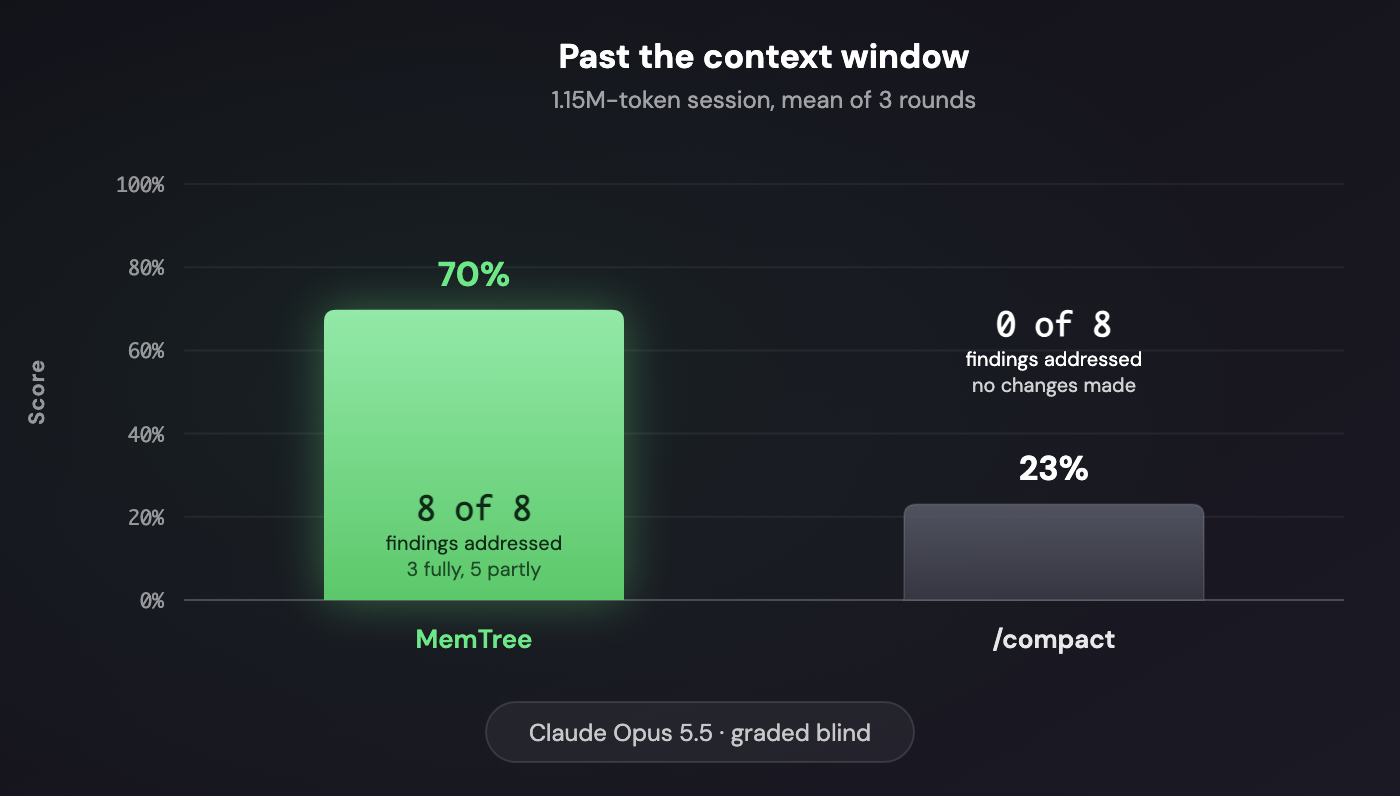
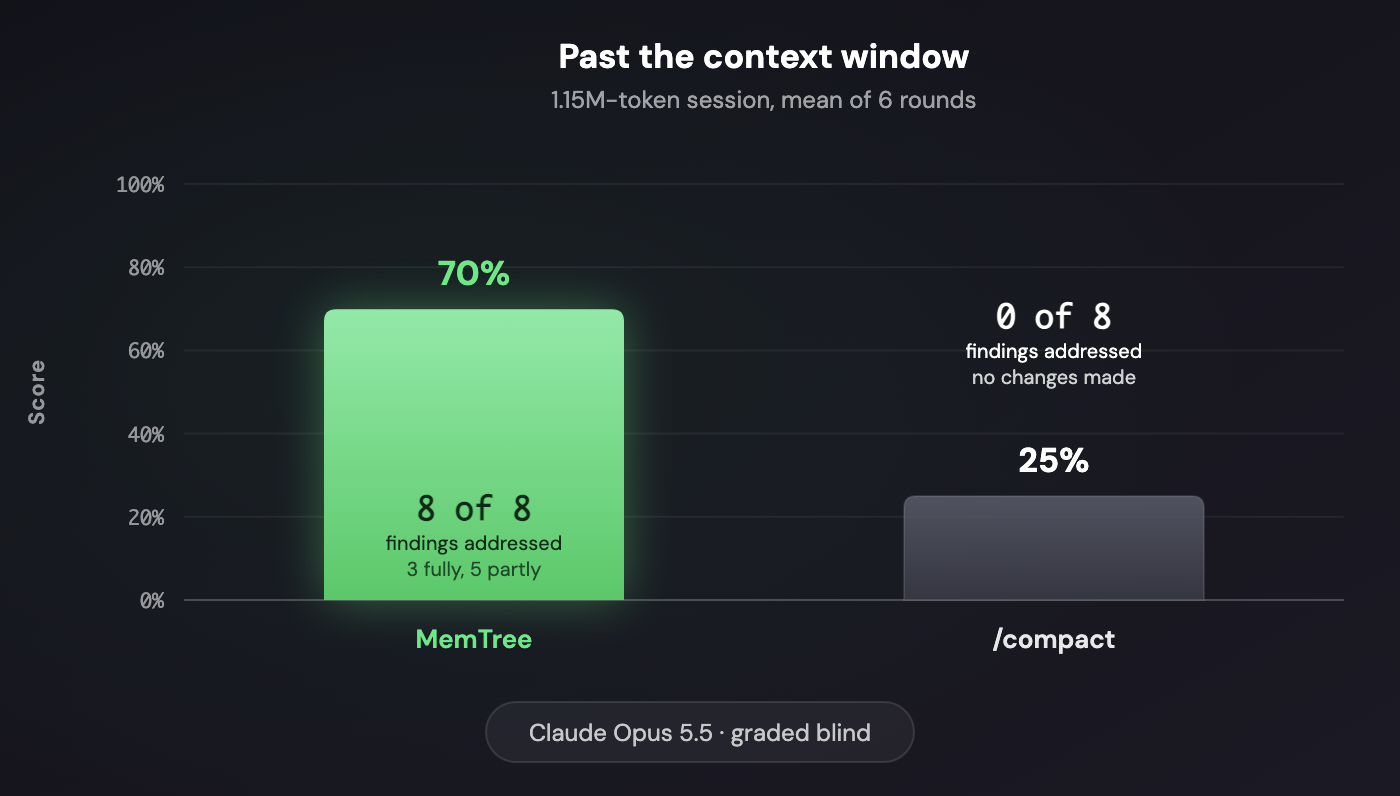
docs: past-the-window benchmark at 6 rounds (MemTree 69.9 vs /compact 25.0); drop the unused two-panel chart

diff --git a/README.md b/README.md
@@ -88,7 +88,7 @@ another round's work); full context still fixed more of the issues (21 vs 17 on 
 ## Past the context window: MemTree keeps the work, `/compact` loses it
 
 <p align="center">
-  <img width="560" alt="Past the context window, 1.15M-token session, Claude Opus 5.5, graded blind, mean of 3 rounds: MemTree 70% with 8 of 8 findings addressed (3 fully, 5 partly); /compact 23% with 0 of 8" src="docs/images/benchmark-past-1m.png">
+  <img width="560" alt="Past the context window, 1.15M-token session, Claude Opus 5.5, graded blind, mean of 6 rounds: MemTree 70% with 8 of 8 findings addressed (3 fully, 5 partly); /compact 25% with 0 of 8" src="docs/images/benchmark-past-1m.png">
 </p>
 
 The benchmark above fits inside Claude Opus 5.5's 1M-token window. This one does not. Each setup
@@ -103,19 +103,19 @@ result blind (0–100) against the real fixes, their regression tests and the se
 
 | Setup | Score | Findings addressed (of 8) | How it handles the history |
 | --- | --- | --- | --- |
-| **Claude Code Infinite** | **69.8** | **8: 3 fully, 5 partly** | Compressed to ~200–285k on the first turn; looked up the review rounds with its MemTree tools |
-| `/compact` | 23.0 | 0 | Claude Code's `/compact` before the task; made no changes and asked for the findings |
+| **Claude Code Infinite** | **69.9** | **8: 3 fully, 5 partly** | Compressed to ~200–290k on the first turn; looked up the review rounds with its MemTree tools |
+| `/compact` | 25.0 | 0 | Claude Code's `/compact` before the task; made no changes and asked for the findings |
 | Full context | n/a | n/a | Not possible: the history is larger than the 1M-token window |
 
 `/compact` failed because its summary dropped the findings: it recorded the reviews only as
 confirmed reviewer findings, with no finding or decision in it, so there was nothing to fix. Its
-23 points are for reporting that honestly. MemTree recovered all 8 findings from the session's
-memory in every round, fixed 3 fully and 5 partly, and implemented the session's decisions rather
-than the reviewer's original proposals. Round scores were 74.6, 67.6 and 67.1 for MemTree (one
-regression, in the first round) and 23 each for `/compact`.
+23 points are for reporting that honestly; the same empty diff scored 27 and 31 in two rounds,
+which is grader noise on one rubric item (0 to 8 points for "preserves existing behavior"). MemTree recovered all 8 findings from the
+session's memory in every round, fixed 3 fully and 5 partly every round, and implemented the
+session's decisions rather than the reviewer's original proposals. MemTree's round scores were
+74.6, 67.6, 67.1, 69.4, 68.1 and 72.6, with 5 regressions charged across the 6 rounds.
 
-Caveats: these are the first 3 rounds, with more running; one task, one model, no significance
-claims. Blinding is weak: `/compact` made no changes and its report says it worked from a summary,
+Caveats: 6 rounds, one task, one model, one grader; no significance claims. Blinding is weak: `/compact` made no changes and its report says it worked from a summary,
 so a grader can tell the setups apart. The same task prompt went to both setups and mentions
 MemTree's lookup tools, which plain Claude Code doesn't have. There is no full-context arm, since
 the history doesn't fit. Grading used a fixed rubric (coverage 30, fix quality 30, fidelity to the
